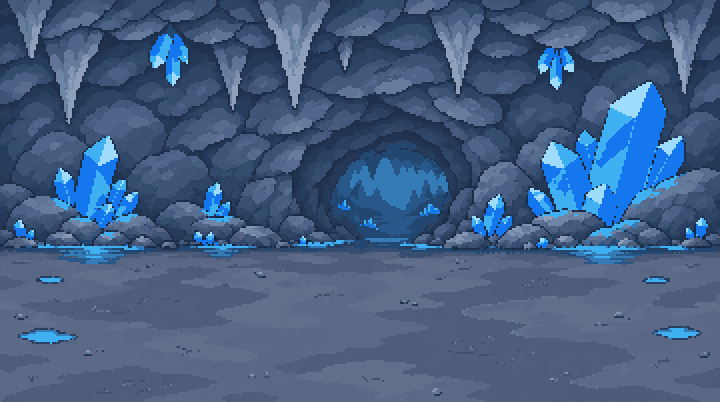
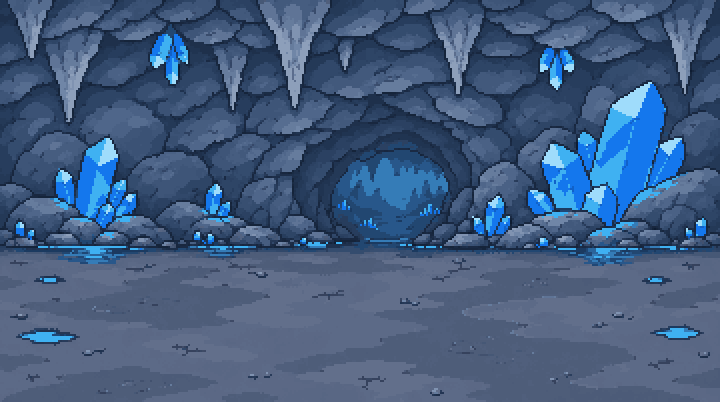
수정 동굴 배경 도트본(외곽선 이음)으로 교체

diff --git a/개발일지/2026-11-27/이미지.md b/개발일지/2026-11-27/이미지.md
@@ -236,3 +236,9 @@
 - 의도: 사용자 "B안이 좋은데 픽셀느낌이덜나다고느꼈어.근데이거 일단 넣어보고 할까?"
 - 결과: B를 넣어 보는 중. 도트 비교본으로 바꿀지는 사용자 확인 대기.
 - 그림: img/codex/cave/px_compare.png(위 B / 아래 도트본), cave_day_b_px.png, pixelize.ps1
+
+## [디자인] 수정 동굴 도트본 외곽선 잇기
+- 한 것: 도트로 줄일 때 얇은 선이 칸의 다수결에서 밀려 끊겼음. 원본에서 "양옆보다 어두운 점"을 선으로 따로 찾아 줄인 뒤에도 남기고, 겹친 모서리와 외톨이 점은 지움(밝은 수정 면은 기준을 높여 잔선 방지). 이 도트본으로 bg_cave.png 교체.
+- 의도: 사용자 "도트본좋은데 외곽선이 듬성듬성"
+- 결과: 확대 비교에서 수정·바위 외곽선이 이어짐. 사용자 확인 대기.
+- 그림: img/codex/cave/line_compare.png(왼쪽 전 / 오른쪽 후), img/p/bg_cave.png
